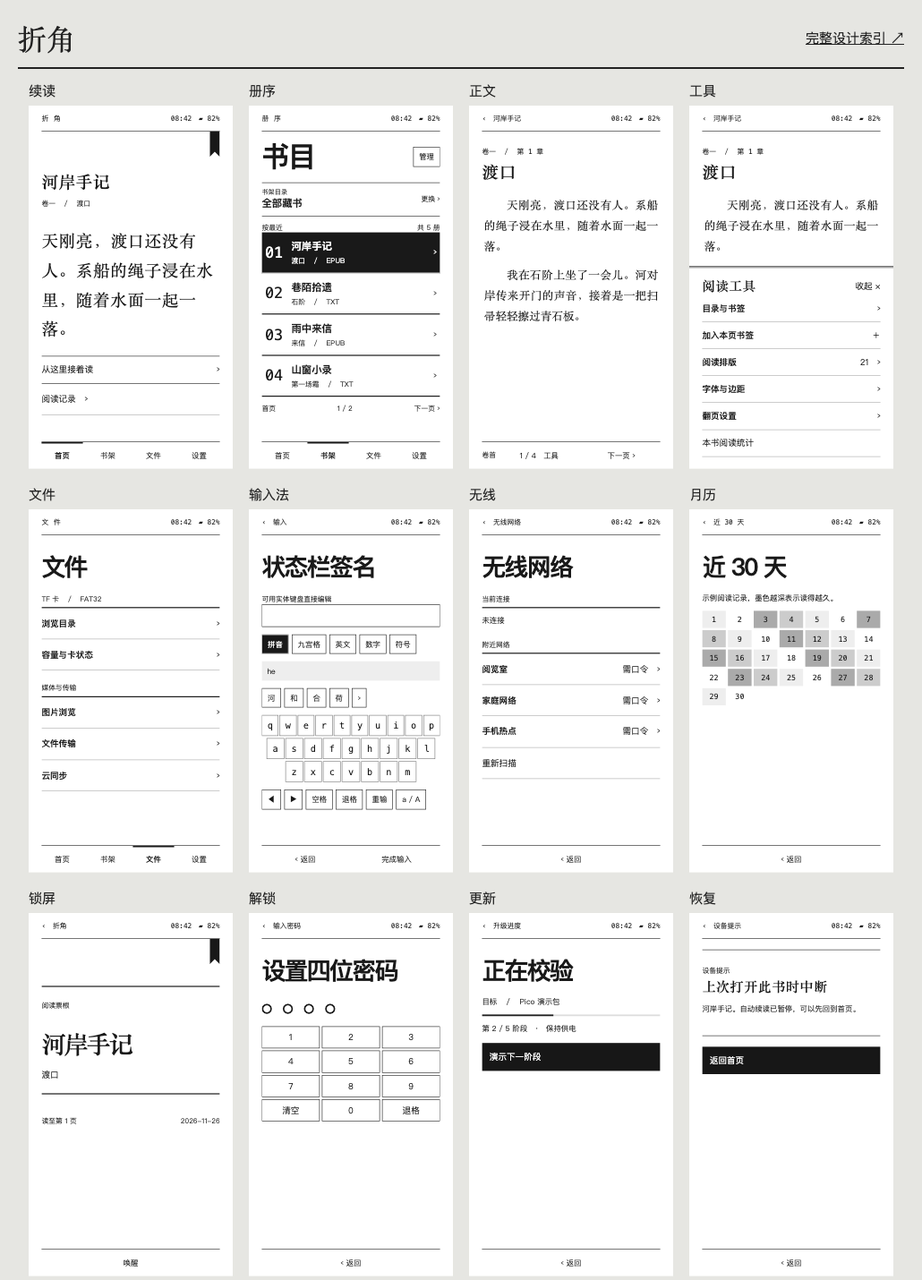
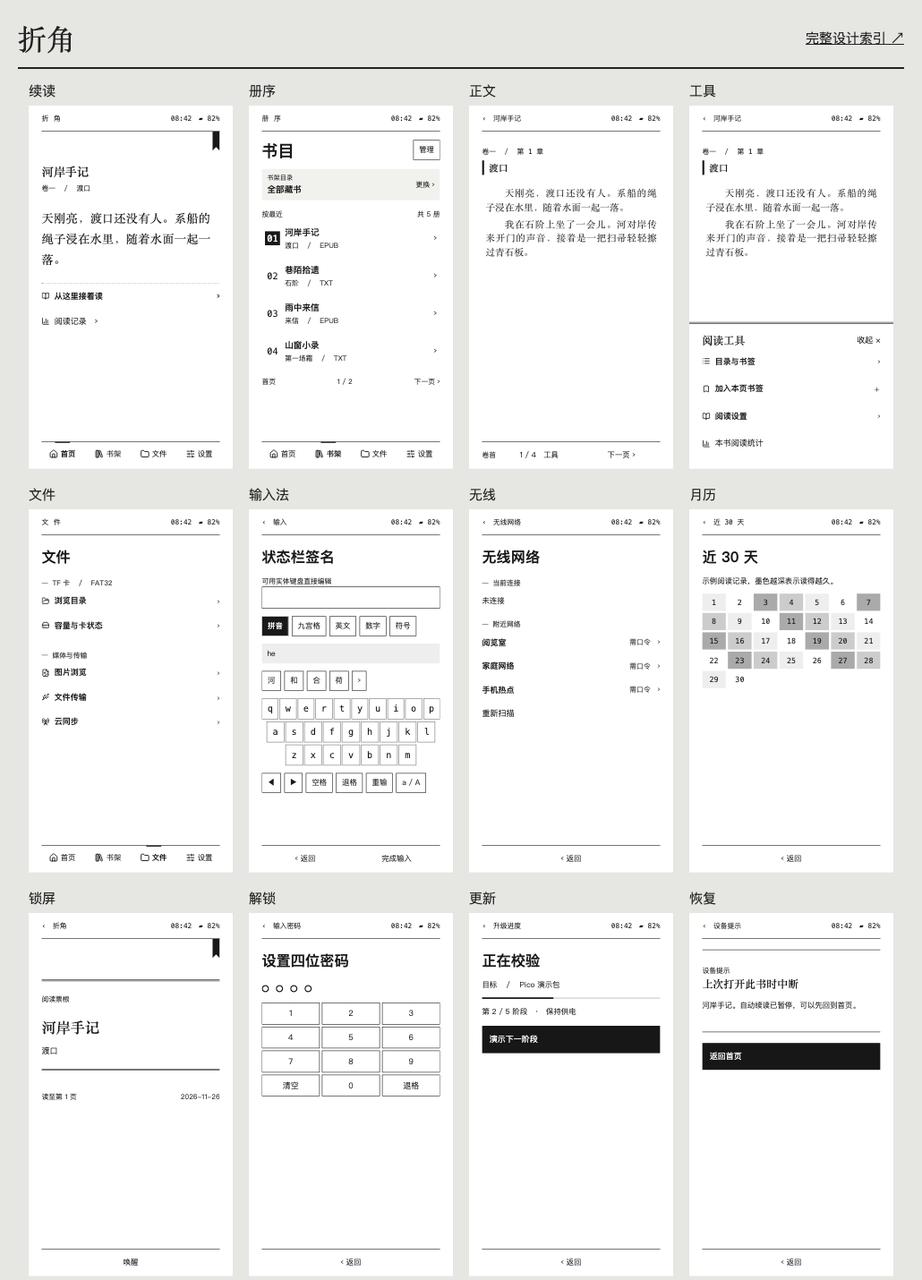
style(prototype): refine folded reader menus and typography

diff --git a/design-demos/folded-reader-complete/index.html b/design-demos/folded-reader-complete/index.html
@@ -1,7 +1,26 @@
 <!doctype html><html lang="zh-CN"><meta charset="utf-8"><meta name="viewport" content="width=device-width,initial-scale=1"><title>折角 · Pico 阅读器</title>
 <style>
-*{box-sizing:border-box}body{margin:0;background:#e6e6e2;color:#191919;font:16px/1.45 "PingFang SC","Microsoft YaHei",sans-serif}button{color:inherit;font:inherit;background:none;border:0;cursor:pointer;padding:0;text-align:left}button:focus-visible{outline:2px dashed;outline-offset:-3px}main{position:relative;width:min(100vw,380px);height:min(100dvh,675.55px);margin:auto;background:white;display:flex;flex-direction:column;padding:0 24px;overflow:hidden}body{min-height:100dvh;display:grid;place-items:center}header,footer,.line,.pager{display:flex;align-items:center;justify-content:space-between;gap:8px}header{height:48px;flex:none;border-bottom:1px solid;font:13px monospace;letter-spacing:1px}header button{padding:8px 0}article{min-height:0;overflow:auto;flex:1;scrollbar-width:thin;padding-bottom:12px}footer{border-top:1px solid;min-height:51px;flex:none}footer button{flex:1;text-align:center;font-size:14px;height:50px}footer .on{font-weight:bold;box-shadow:inset 0 3px}h1,h2,h3,p{margin:0}.serif,h2,.quote,.prose,.titlepage{font-family:"Songti SC","STSong",serif}h1{font-size:45px;letter-spacing:-3px;line-height:1.2;margin:32px 0 20px}h2{font-size:31px;letter-spacing:1px}small,.meta{font-size:13px}.mono{font-family:monospace;font-variant-numeric:tabular-nums}.ribbon{display:block;width:19px;height:47px;background:#181818;clip-path:polygon(0 0,100% 0,100% 100%,50% 80%,0 100%);margin-left:auto}.home h2{margin:24px 0 5px}.quote{font-size:31px;line-height:1.75;letter-spacing:1px;margin:32px 0 25px}.rule,.row,.primary{width:100%;display:flex;align-items:center;justify-content:space-between;gap:10px}.rule{border-block:1px solid;padding:13px 0}.row{border-bottom:1px solid #aaa;padding:17px 0}.row b,.row small{display:block}.row small{margin-top:4px}.primary{background:#171717;color:white;padding:14px;margin-top:15px}.shelf h1{font-size:65px;margin:30px 0 20px}.book{display:grid;grid-template-columns:40px 1fr auto;text-align:left;width:100%;align-items:center;gap:9px;padding:18px 6px;border-bottom:2px solid}.book.active{background:#191919;color:white}.book strong{font-size:19px}.book small{display:block;margin-top:4px}.number{font:28px monospace}.group{font-size:13px;margin:23px 0 0;border-bottom:2px solid;padding-bottom:6px}.prose{font-size:var(--size);line-height:var(--leading);text-align:justify}.prose p{margin:0 0 .65em;text-indent:2em}.chapter{margin:28px 0 20px}.chapter small{display:block;font:13px monospace;margin-bottom:6px}.pager{width:100%;font-size:13px}.pager button{padding:12px 0}.sheet{position:absolute;bottom:0;left:0;width:100%;padding:16px 24px 22px;background:white;border-top:3px double;z-index:2}.sheet .row{padding:13px 0}.sheet h2{font-size:24px}.readerpage{cursor:pointer}.label{display:inline-block;border:1px solid;font:12px monospace;padding:3px 6px}.intro{margin:18px 0;line-height:1.8}.options{display:flex;gap:5px;margin:10px 0 20px}.options button{flex:1;border:1px solid;padding:9px 0;text-align:center}.chosen{background:#191919;color:white}.lock{margin:auto;text-align:center}.lock h1{font:64px "Songti SC",serif;writing-mode:vertical-rl;letter-spacing:8px;margin:25px auto}.lock .ribbon{margin:0 auto}.progress{height:3px;background:#ddd;margin-top:12px}.progress i{display:block;height:100%;background:#222}.sub{padding-top:12px}.bookmark{font-size:13px}.fileicon{font:13px monospace;border:1px solid;padding:4px;min-width:42px;text-align:center}.filetitle{flex:1}.titlepage{font-size:24px}.end{font-size:13px;text-align:center;margin:20px}.off{visibility:hidden}button:disabled{color:#888;cursor:default}@media(max-height:570px){.quote{font-size:24px;margin:15px 0}}
-header button,footer button{min-height:40px}.subnav{display:flex;flex-wrap:wrap;gap:6px;margin:14px 0}.subnav button,.chip{border:1px solid;padding:7px 10px;font-size:14px}.help{font-size:14px;line-height:1.65;margin:12px 0}.empty{border-block:1px solid;padding:26px 0;margin:20px 0}.empty h2{font-size:25px}.numgrid,.keygrid{display:grid;grid-template-columns:repeat(3,1fr);gap:4px;margin:12px 0}.numgrid button,.keygrid button{border:1px solid;text-align:center;padding:8px 0}.keygrid{grid-template-columns:repeat(6,1fr)}input,select{max-width:100%;font:inherit;border:1px solid;background:white;color:#111;padding:8px}input.wide{width:100%}.notice{padding:8px 10px;background:#eee;margin:8px 0;font-size:14px}.stamp{display:inline-block;border:2px solid;padding:3px 8px;font-weight:bold;letter-spacing:2px}.bars{height:68px;display:flex;align-items:end;gap:8px;margin:12px 0}.bars i{background:#222;flex:1}.ticket{margin:40px 0;border-block:3px double;padding:22px 0}.tiles{display:grid;grid-template-columns:1fr 1fr;transform:rotate(-5deg);gap:8px;margin:52px 18px}.tiles b{border:1px solid;padding:18px 8px;writing-mode:vertical-rl;font:26px 'Songti SC',serif}.wall{height:160px;background:repeating-radial-gradient(ellipse at bottom right,white 0 8px,#333 9px 10px);margin:25px 0}.rail{display:flex;gap:4px}.rail button{flex:1;text-align:center;border:1px solid;padding:9px 0}.ghost{color:#555}.kbdline{word-break:break-all;min-height:46px;border-bottom:2px solid;padding:6px 0}.scrollHint{margin-top:20px}button:disabled{opacity:.5}article{overflow-wrap:anywhere}.prose{line-height:var(--leading)}.sheet{max-height:78%;overflow:auto}.qwerty{margin:12px 0}.qwerty>div{display:flex;gap:2px;margin:4px 0;justify-content:center}.qwerty button{width:10%;height:39px;border:1px solid #777;text-align:center;font:17px monospace}.crop{aspect-ratio:684/1216;width:135px;height:auto;margin-inline:auto;border:1px solid}header button{max-width:65%;overflow:hidden;white-space:nowrap;text-overflow:ellipsis}.print{width:68px;height:54px;border:1px solid}.photo{width:100%;height:270px;margin:20px 0}.print0{background:repeating-radial-gradient(ellipse at bottom right,white 0 9px,#333 10px 11px)}.print1{background:repeating-radial-gradient(ellipse at 30% -40%,white 0 12px,#222 13px 14px)}.print2{background:repeating-radial-gradient(circle at 56% 44%,#222 0 2px,white 3px 11px)}.scope{border-block:1px solid;margin:0 0 12px}.scope-pick,.scope-path{width:100%;display:flex;align-items:center;justify-content:space-between;gap:8px;padding:8px 0}.scope-pick small,.dir-option small{display:block;font-size:12px}.scope-pick b{font-size:19px}.scope-pick>span:last-child,.scope-path{font-size:13px}.scope-path{border-top:1px dotted #aaa}.scope-path code,.dir-option small{overflow-wrap:anywhere}.scope-path button{white-space:nowrap;text-decoration:underline}.dir-option{width:100%;display:grid;grid-template-columns:30px minmax(0,1fr) auto;gap:8px;align-items:center;padding:12px 8px;border-bottom:1px solid}.dir-option b,.dir-option small{display:block}.dir-option>span:last-child{font-size:13px}.scope-apply{background:#191919;color:white}footer .scope-apply{flex:2}.shelf:has(.scope) h1{margin:16px 0;font-size:52px}.shelf:has(.scope) .book{padding-block:12px}.rs-tabs{display:flex;border-block:1px solid;margin:12px 0}.rs-tabs button{flex:1;padding:9px;text-align:center}.rs-tabs [aria-current=true]{background:#171717;color:white}.rs-preview{border-block:2px solid;padding:10px 0;margin:12px 0}.rs-preview>small{display:block;margin-bottom:8px}.rs-preview .prose{max-height:130px;overflow:auto}.rs-range{display:block;margin:14px 0}.rs-range span{display:flex;justify-content:space-between}.rs-range input{width:100%;accent-color:#171717;padding:0}.rs-choices{display:flex;flex-wrap:wrap;gap:4px;margin:6px 0 12px}.rs-choices button{padding:6px 9px;border:1px solid #777}.rs-heading{margin:8px 0 14px}.rs-heading[data-style="粗竖线"]{border-inline-start:4px solid;padding-inline-start:9px}.rs-heading[data-style="扉页横线"]{border-block:1px solid;padding:6px}.rs-heading[data-style="阶梯题头"]{padding-inline-start:18px;border-bottom:2px solid;width:fit-content}.rs-heading[data-style="章号侧栏"]{display:flex;align-items:center;gap:8px}.rs-heading[data-style="章号侧栏"]:before{content:"章";writing-mode:vertical-rl;background:#222;color:white;font:12px serif;padding:6px}.rs-preview p{margin-top:0}.rs-bg{background:repeating-linear-gradient(115deg,#fff 0 12px,#eee 13px 14px)}.reading-menu h1{margin:20px 0 10px}.pic-input label{position:relative;display:block;border:1px solid;padding:12px;margin:8px 0;cursor:pointer}.pic-input input{position:absolute;inset:0;opacity:0;width:100%;height:100%;cursor:pointer}.pic-input label:focus-within{outline:2px solid}.pic-thumb{width:50px;height:54px;object-fit:cover;filter:grayscale(1)}.pic-name{flex:1;min-width:0;overflow-wrap:anywhere;padding:0 8px}.pic-proof{min-height:260px;padding:15px}.pic-proof .prose{max-height:210px}</style>
+*{box-sizing:border-box}body{margin:0;background:#e6e6e2;color:#191919;font:15px/1.5 "PingFang SC","Microsoft YaHei",sans-serif}button{color:inherit;font:inherit;background:none;border:0;cursor:pointer;padding:0;text-align:left}button:focus-visible{outline:2px dashed;outline-offset:-3px}main{position:relative;width:min(100vw,380px);height:min(100dvh,675.55px);margin:auto;background:white;display:flex;flex-direction:column;padding:0 24px;overflow:hidden}body{min-height:100dvh;display:grid;place-items:center}header,footer,.line,.pager{display:flex;align-items:center;justify-content:space-between;gap:8px}header{height:48px;flex:none;border-bottom:1px solid;font:13px monospace;letter-spacing:1px}header button{padding:8px 0}article{min-height:0;overflow:auto;flex:1;scrollbar-width:thin;padding-bottom:12px}footer{border-top:1px solid;min-height:51px;flex:none}footer button{flex:1;text-align:center;font-size:14px;height:50px}footer .on{position:relative;font-weight:600}footer .on::before{content:"";position:absolute;inset:0 0 auto;margin:auto;width:2em;border-top:2px solid}h1,h2,h3,p{margin:0}.serif,h2,.quote,.prose,.titlepage{font-family:"Songti SC","STSong",serif}h1{font-size:1.8em;letter-spacing:0;line-height:1.25;margin:24px 0 16px}h2{font-size:1.47em;letter-spacing:0}small,.meta{font-size:13px}.mono{font-family:monospace;font-variant-numeric:tabular-nums}.ribbon{display:block;width:14px;height:36px;background:#181818;clip-path:polygon(0 0,100% 0,100% 100%,50% 80%,0 100%);margin-left:auto}.home h2{margin:22px 0 4px}.quote{font-size:1.47em;line-height:1.75;letter-spacing:.02em;margin:24px 0}.rule,.row,.primary{width:100%;display:flex;align-items:center;justify-content:space-between;gap:10px}.rule{padding:13px 0;font-weight:600}.home .rule{border-top:1px dotted #aaa}.row{min-height:44px;padding:10px 0}.row b{font-weight:550}.row>b+span{font-size:.87em;color:#474747}.row b,.row small{display:block}.row small{margin-top:4px}.primary{background:#171717;color:white;padding:14px;margin-top:15px}.shelf h1{font-size:2em;margin:18px 0 14px}.book{display:grid;grid-template-columns:28px minmax(0,1fr) auto;text-align:left;width:100%;align-items:center;gap:9px;padding:11px 6px}.book.active .number{background:#191919;color:white}.book strong{font-size:1.07em;font-weight:600}.book small{display:block;margin-top:4px}.number{font:17px/26px monospace;text-align:center}.group{display:flex;align-items:center;gap:8px;font-size:13px;font-weight:500;color:#555;margin:22px 0 2px}.group::before{content:"";width:12px;border-top:1px solid;flex:none}.prose{font-size:var(--size);line-height:var(--leading);text-align:justify}.prose p{margin:0 0 .65em;text-indent:2em}.chapter{margin:28px 0 20px}.chapter small{display:block;font:13px monospace;margin-bottom:6px}.pager{width:100%;font-size:13px}.pager button{padding:12px 0}.sheet{position:absolute;bottom:0;left:0;width:100%;padding:16px 24px 22px;background:white;border-top:3px double;z-index:2}.sheet .row{padding:13px 0}.sheet h2{font-size:1.33em}.readerpage{cursor:pointer}.label{display:inline-block;border:1px solid;font:12px monospace;padding:3px 6px}.intro{margin:18px 0;line-height:1.8}.options{display:flex;gap:5px;margin:10px 0 20px}.options button{flex:1;border:1px solid;padding:9px 0;text-align:center}.chosen{background:#191919;color:white}.lock{margin:auto;text-align:center}.lock h1{font:44px "Songti SC",serif;writing-mode:vertical-rl;letter-spacing:8px;margin:25px auto}.lock .ribbon{margin:0 auto}.progress{height:3px;background:#ddd;margin-top:12px}.progress i{display:block;height:100%;background:#222}.sub{padding-top:12px}.bookmark{font-size:13px}.fileicon{font:13px monospace;border:1px solid;padding:4px;min-width:42px;text-align:center}.filetitle{flex:1}.titlepage{font-size:24px}.end{font-size:13px;text-align:center;margin:20px}.off{visibility:hidden}button:disabled{color:#888;cursor:default}@media(max-height:570px){.quote{margin:15px 0}}
+header button,footer button{min-height:40px}.subnav{display:flex;flex-wrap:wrap;gap:6px;margin:14px 0}.subnav button,.chip{border:1px solid;padding:7px 10px;font-size:14px}.help{font-size:14px;line-height:1.65;margin:12px 0}.empty{border-block:1px solid;padding:26px 0;margin:20px 0}.empty h2{font-size:1.33em}.numgrid,.keygrid{display:grid;grid-template-columns:repeat(3,1fr);gap:4px;margin:12px 0}.numgrid button,.keygrid button{border:1px solid;text-align:center;padding:8px 0}.keygrid{grid-template-columns:repeat(6,1fr)}input,select{max-width:100%;font:inherit;border:1px solid;background:white;color:#111;padding:8px}input.wide{width:100%}.notice{padding:8px 10px;background:#eee;margin:8px 0;font-size:14px}.stamp{display:inline-block;border:2px solid;padding:3px 8px;font-weight:bold;letter-spacing:2px}.bars{height:68px;display:flex;align-items:end;gap:8px;margin:12px 0}.bars i{background:#222;flex:1}.ticket{margin:40px 0;border-block:3px double;padding:22px 0}.tiles{display:grid;grid-template-columns:1fr 1fr;transform:rotate(-5deg);gap:8px;margin:52px 18px}.tiles b{border:1px solid;padding:18px 8px;writing-mode:vertical-rl;font:26px 'Songti SC',serif}.wall{height:160px;background:repeating-radial-gradient(ellipse at bottom right,white 0 8px,#333 9px 10px);margin:25px 0}.rail{display:flex;gap:4px}.rail button{flex:1;text-align:center;border:1px solid;padding:9px 0}.ghost{color:#555}.kbdline{word-break:break-all;min-height:46px;border-bottom:2px solid;padding:6px 0}.scrollHint{margin-top:20px}button:disabled{opacity:.5}article{overflow-wrap:anywhere}.prose{line-height:var(--leading)}.sheet{max-height:78%;overflow:auto}.qwerty{margin:12px 0}.qwerty>div{display:flex;gap:2px;margin:4px 0;justify-content:center}.qwerty button{width:10%;height:39px;border:1px solid #777;text-align:center;font:17px monospace}.crop{aspect-ratio:684/1216;width:135px;height:auto;margin-inline:auto;border:1px solid}header button{max-width:65%;overflow:hidden;white-space:nowrap;text-overflow:ellipsis}.print{width:68px;height:54px;border:1px solid}.photo{width:100%;height:270px;margin:20px 0}.print0{background:repeating-radial-gradient(ellipse at bottom right,white 0 9px,#333 10px 11px)}.print1{background:repeating-radial-gradient(ellipse at 30% -40%,white 0 12px,#222 13px 14px)}.print2{background:repeating-radial-gradient(circle at 56% 44%,#222 0 2px,white 3px 11px)}.scope{margin:0 0 16px;padding-inline:10px;background:#f1f1ee}.scope-pick,.scope-path{width:100%;display:flex;align-items:center;justify-content:space-between;gap:8px;padding:8px 0}.scope-pick small,.dir-option small{display:block;font-size:12px}.scope-pick b{font-size:1.07em}.scope-pick>span:last-child,.scope-path{font-size:13px}.scope-path{border-top:1px dotted #aaa}.scope-path code,.dir-option small{overflow-wrap:anywhere}.scope-path button{white-space:nowrap;text-decoration:underline}.dir-option{width:100%;display:grid;grid-template-columns:30px minmax(0,1fr) auto;gap:8px;align-items:center;padding:12px 8px}.dir-option b,.dir-option small{display:block}.dir-option>span:last-child{font-size:13px}.scope-apply{background:#191919;color:white}footer .scope-apply{flex:2}.rs-tabs{display:flex;gap:4px;margin:12px 0 16px;background:#f3f3f0;padding:3px}.rs-tabs button{flex:1;padding:9px;text-align:center}.rs-tabs [aria-current=true]{background:#171717;color:white}.rs-preview{border-inline-start:1px solid #aaa;padding:4px 0 4px 12px;margin:14px 0 18px}.rs-preview>small{display:block;margin-bottom:8px}.rs-preview .prose{max-height:130px;overflow:auto}.rs-range{display:block;margin:14px 0}.rs-range span{display:flex;justify-content:space-between}.rs-range input{width:100%;accent-color:#171717;padding:0}.rs-choices{display:flex;flex-wrap:wrap;gap:4px;margin:6px 0 12px}.rs-choices button{padding:6px 9px;border:1px solid #777}.rs-heading{margin:8px 0 14px}.rs-heading[data-style="粗竖线"]{border-inline-start:4px solid;padding-inline-start:9px}.rs-heading[data-style="扉页横线"]{border-block:1px solid;padding:6px}.rs-heading[data-style="阶梯题头"]{padding-inline-start:18px;border-bottom:2px solid;width:fit-content}.rs-heading[data-style="章号侧栏"]{display:flex;align-items:center;gap:8px}.rs-heading[data-style="章号侧栏"]:before{content:"章";writing-mode:vertical-rl;background:#222;color:white;font:12px serif;padding:6px}.rs-preview p{margin-top:0}.rs-bg{background:repeating-linear-gradient(115deg,#fff 0 12px,#eee 13px 14px)}.reading-menu h1{margin:20px 0 10px}.pic-input label{position:relative;display:block;border:1px solid;padding:12px;margin:8px 0;cursor:pointer}.pic-input input{position:absolute;inset:0;opacity:0;width:100%;height:100%;cursor:pointer}.pic-input label:focus-within{outline:2px solid}.pic-thumb{width:50px;height:54px;object-fit:cover;filter:grayscale(1)}.pic-name{flex:1;min-width:0;overflow-wrap:anywhere;padding:0 8px}.pic-proof{min-height:260px;padding:15px}.pic-proof .prose{max-height:210px}
+.ui-icon{width:15px;height:15px;object-fit:contain;flex:none;pointer-events:none}
+.icon-label{display:inline-flex;align-items:center;gap:9px;min-width:0}
+footer .icon-label{gap:5px}
+footer .ui-icon{width:17px;height:17px}
+
+/* A dot marks a value within a choice group. Standalone action buttons keep their outline. */
+.value-choices button,.rs-choices button,.options button{
+ display:inline-flex;align-items:center;justify-content:flex-start;gap:7px;
+ border:0;background:transparent;color:inherit;padding:8px 9px 8px 0
+}
+.value-choices button::before,.rs-choices button::before,.options button::before{
+ content:"";box-sizing:border-box;width:10px;height:10px;flex:none;border:1px solid #777;border-radius:50%
+}
+.value-choices .chosen,.rs-choices .chosen,.options .chosen{font-weight:650}
+.value-choices .chosen::before,.rs-choices .chosen::before,.options .chosen::before{
+ background:#222;border-color:#222;box-shadow:inset 0 0 0 2px white
+}
+@media(hover:hover){.row:not(:disabled):hover,.book:hover{background:#f3f3f0}}
+</style>
 <main id="device" aria-label="折角阅读器"></main>
 <script>
 const books=[
@@ -13,7 +32,7 @@ const books=[
  {name:'巷陌拾遗',type:'TXT',chs:['石阶','南窗'],pages:[['沿着旧巷走进去，石阶上还留着昨夜的雨。','卖花的人推开木窗，把一盆茉莉放在第一层台阶上。'],['窗棂的一半落在阴影里。','有人把一张旧报纸叠了两折，垫在花盆下面。']]},
  {name:'雨中来信',type:'EPUB',chs:['来信','回音'],pages:[['信是一个下雨的下午送来的。','信封上只有我的名字。打开时，一张车票先落在了桌面上。'],['雨停的时候，我写下第一行回信。','窗外的屋檐仍在滴水，每一滴都隔得很远。']]}];
 const starts=[[0,2,3],[0,1],[0,1]],names={home:'首页',shelf:'书架',files:'文件',settings:'设置'},params=new URLSearchParams(location.search);
-let state={id:0,pos:[0,0,0],recent:[0,1,2],marks:[],size:21,leading:1.85,refresh:10};
+let state={id:0,pos:[0,0,0],recent:[0,1,2],marks:[],size:18,leading:1.85,refresh:10};
 const demo=params.has('shot');try{if(!demo)Object.assign(state,JSON.parse(localStorage.getItem('folded-reader-complete-v1')||'{}'))}catch{}
 let view=params.get('view')||'home',panel=params.get('panel')||'',folder=false,origin='shelf',returnTo='settings',chapterTab='目录',transfer='USB';
 const root=document.querySelector('main'),b=()=>books[state.id],page=()=>state.pos[state.id],ch=(i,n)=>starts[i].filter(v=>v<=n).length-1;
@@ -24,20 +43,32 @@ function pos(n){state.pos[state.id]=n;save();go('reader')}
 function set(k,v){state[k]=v;save();draw()}
 function toggle(){let key=state.id+'-'+page();state.marks=state.marks.includes(key)?state.marks.filter(x=>x!==key):[...state.marks,key];save();draw()}
 function options(k,items){return '<div class="options">'+items.map(([v,t])=>'<button class="'+(state[k]===v?'chosen':'')+'" onclick="set(\''+k+'\','+v+')">'+t+'</button>').join('')+'</div>'}
+const routeIcons = {
+ home:'house', shelf:'library-big', files:'folder', settings:'sliders-horizontal',
+ browser:'folder-open', storage:'hard-drive', gallery:'file-image', transferHub:'usb', cloud:'radio-tower',
+ readingSettings:'book-open', appearance:'contrast', wireless:'wifi', bluetooth:'bluetooth',
+ profile:'ticket', clock:'clock', sleepSettings:'eye-closed', updates:'download', backup:'copy', powerMenu:'power',
+ textStyle:'type', pageLayout:'text-align-start', pageDisplay:'expand', readerGuide:'list', chapterStyle:'book-bookmark',
+ security:'lock', wallpaper:'file-image', keys:'layout-grid', month:'chart-column', contents:'list'
+};
+function iconLabel(icon, label) {
+ if (!icon) return label;
+ return '<span class="icon-label"><img class="ui-icon" src="../../tools/icons/lucide/'+icon+'.svg" alt="">'+label+'</span>';
+}
 const btn=(s,action,cl='')=>'<button class="'+cl+'" onclick="'+action+'">'+s+'</button>';
-const row=(s,end,act)=>btn('<b>'+s+'</b><span>'+end+'</span>',act,'row');
+const row=(s,end,act,icon)=>btn('<b>'+iconLabel(icon,s)+'</b><span>'+end+'</span>',act,'row');
 const route=v=>"go('"+v+"')";
 function draw(){
  const i=state.id,n=page(),bk=b(),ci=ch(i,n),c=bk.chs[ci],key=i+'-'+n,marked=state.marks.includes(key),meta='卷一　／　'+c;
- const nav=Object.entries(names).map(([k,v])=>btn(v,route(k),view===k?'on':'')).join('');
+ const nav=Object.entries(names).map(([k,v])=>btn(iconLabel(routeIcons[k],v),route(k),view===k?'on':'')).join('');
  let title='折 角',body='',bottom=nav,overlay='',back='';
- if(view==='home'){body='<section class="home"><i class="ribbon"></i><h2>'+bk.name+'</h2><small>'+meta+'</small><p class="quote">'+bk.pages[n][0]+'</p>'+btn('从这里接着读 <span>›</span>',"book("+i+",'home')",'rule')+'</section>'}
+ if(view==='home'){body='<section class="home"><i class="ribbon"></i><h2>'+bk.name+'</h2><small>'+meta+'</small><p class="quote">'+bk.pages[n][0]+'</p>'+btn(iconLabel('book-open','从这里接着读')+'<span>›</span>',"book("+i+",'home')",'rule')+'</section>'}
  if(view==='shelf'){title='册 序';body='<section class="shelf"><h1>书目</h1><div class="line meta"><span>按最近阅读排序</span><span>共 03 册</span></div>'+state.recent.map((j,k)=>btn('<span class="number">0'+(k+1)+'</span><span><strong>'+books[j].name+'</strong><small>'+books[j].chs[ch(j,state.pos[j])]+'　／　'+books[j].type+'</small></span><span>›</span>',"book("+j+",'shelf')",'book '+(k===0?'active':''))).join('')+'</section>'}
  if(view==='files'){title='文 件';body='<h1>文件</h1><div class="group">TF 卡'+(folder?'　/　books':'　/ 根目录')+'</div>'+(folder?btn('‹ 上级目录','folder=false;draw()','row')+books.map((x,j)=>btn('<span class="fileicon">'+x.type+'</span><span class="filetitle">'+x.name+'.'+x.type.toLowerCase()+'</span>›',"book("+j+",'files')",'row')).join(''):row('books','3 个文件　›','folder=true;draw()'))+row('文件传输','›',route('transfer'))}
  if(view==='settings'){title='设 置';body='<h1>设置</h1><div class="group">阅读与显示</div>'+row('阅读排版',state.size+'　›',"returnTo='settings';go('type')")+row('自动全刷',state.refresh+' 页　›',route('refresh'))+'<div class="group">设备</div>'+row('文件传输','›',route('transfer'))+row('锁屏预览','›',route('lock'))}
- if(view==='reader'){title=bk.name;back=route(origin);body='<section class="readerpage" onclick="panel=\'tools\';draw()"><div class="chapter"><small>卷一　／　第 '+(ci+1)+' 章</small><h2>'+c+'</h2></div><div class="prose">'+bk.pages[n].map(s=>'<p>'+s+'</p>').join('')+'</div></section>';bottom='<div class="pager">'+(n?btn('‹ 上一页','pos('+(n-1)+')'):'<span>卷首</span>')+btn((n+1)+' / '+bk.pages.length+'　工具',"panel='tools';draw()")+(n<bk.pages.length-1?btn('下一页 ›','pos('+(n+1)+')'):'<span>全书完</span>')+'</div>';if(panel==='tools')overlay='<aside class="sheet"><div class="line"><h2>阅读工具</h2>'+btn('收起 ×',"panel='';draw()")+'</div>'+row('目录与书签','›',"chapterTab='目录';go('contents')")+row(marked?'移除本页书签':'加入本页书签',marked?'已收藏':'＋','toggle()')+row('阅读排版',state.size+'　›',"returnTo='reader';go('type')")+'</aside>'}
+ if(view==='reader'){title=bk.name;back=route(origin);body='<section class="readerpage" onclick="panel=\'tools\';draw()"><div class="chapter"><small>卷一　／　第 '+(ci+1)+' 章</small><h2>'+c+'</h2></div><div class="prose">'+bk.pages[n].map(s=>'<p>'+s+'</p>').join('')+'</div></section>';bottom='<div class="pager">'+(n?btn('‹ 上一页','pos('+(n-1)+')'):'<span>卷首</span>')+btn((n+1)+' / '+bk.pages.length+'　工具',"panel='tools';draw()")+(n<bk.pages.length-1?btn('下一页 ›','pos('+(n+1)+')'):'<span>全书完</span>')+'</div>';if(panel==='tools')overlay='<aside class="sheet"><div class="line"><h2>阅读工具</h2>'+btn('收起 ×',"panel='';draw()")+'</div>'+row('目录与书签','›',"chapterTab='目录';go('contents')","list")+row(marked?'移除本页书签':'加入本页书签',marked?'已收藏':'＋','toggle()',marked?'bookmark-check':'bookmark')+row('阅读排版',state.size+'　›',"returnTo='reader';go('type')")+'</aside>'}
  if(view==='contents'){title=bk.name;back=route('reader');let marks=state.marks.filter(x=>x.startsWith(i+'-')).map(x=>Number(x.split('-')[1])).sort((a,b)=>a-b);body='<h1>'+chapterTab+'</h1><div class="options">'+['目录','书签'].map(t=>btn(t,"chapterTab='"+t+"';draw()",chapterTab===t?'chosen':'')).join('')+'</div>'+(chapterTab==='目录'?bk.chs.map((s,j)=>row(s,j===ci?'正在读':'第 '+(starts[i][j]+1)+' 页','pos('+starts[i][j]+')')).join(''):marks.map(x=>row(bk.chs[ch(i,x)],'第 '+(x+1)+' 页','pos('+x+')')).join('')||'<p class="intro">还没有书签。阅读时打开工具，即可收藏当前页。</p>');bottom=btn('‹ 返回正文',back)}
- if(view==='type'){title='阅读排版';back=route(returnTo);body='<h1>阅读排版</h1><div class="group">字号</div>'+options('size',[[18,'小'],[21,'标准'],[24,'大']])+'<div class="group">行距</div>'+options('leading',[[1.55,'紧凑'],[1.85,'舒展'],[2.1,'宽松']])+'<div class="group">正文预览</div><div class="prose sub"><p>'+bk.pages[n][0]+'</p></div>';bottom=btn('‹ 返回'+(returnTo==='reader'?'正文':'设置'),back)}
+ if(view==='type'){title='阅读排版';back=route(returnTo);body='<h1>阅读排版</h1><div class="group">字号</div>'+options('size',[[16,'小'],[18,'标准'],[22,'大']])+'<div class="group">行距</div>'+options('leading',[[1.55,'紧凑'],[1.85,'舒展'],[2.1,'宽松']])+'<div class="group">正文预览</div><div class="prose sub"><p>'+bk.pages[n][0]+'</p></div>';bottom=btn('‹ 返回'+(returnTo==='reader'?'正文':'设置'),back)}
  if(view==='refresh'){title='显示';back=route('settings');body='<h1>自动全刷</h1><p class="intro">设置间隔页数，定期清理墨水屏残影。</p>'+options('refresh',[[5,'5 页'],[10,'10 页'],[15,'15 页'],[30,'30 页']]);bottom=btn('‹ 返回设置',back)}
  if(view==='transfer'){title='文件传输';back=route(originTransfer);body='<h1>传书</h1><div class="options">'+['USB','Wi-Fi','设备热点'].map(t=>btn(t,"transfer='"+t+"';draw()",transfer===t?'chosen':'')).join('')+'</div><div class="group">'+transfer+' 传输</div><p class="intro">'+({'USB':'使用数据线连接电脑，将 EPUB 或 TXT 文件复制到 TF 卡的 books 目录。','Wi-Fi':'阅读器与电脑连接同一个无线网络，再通过设备显示的地址传书。','设备热点':'用电脑连接阅读器创建的热点，再打开设备显示的传输页面。'})[transfer]+'</p><small>界面演示 · 未连接设备</small>';bottom=btn('‹ 返回',back)}
  if(view==='lock'){title='休 眠';body='<div class="lock"><i class="ribbon"></i><h1>折角</h1><h2>'+bk.name+'</h2><small>'+meta+'</small></div>';bottom=btn('唤醒阅读器',route('home'))}

diff --git a/design-demos/folded-reader-complete/spec.html b/design-demos/folded-reader-complete/spec.html
@@ -1,6 +1,6 @@
 <!doctype html><html lang="zh-CN"><meta charset="utf-8"><meta name="viewport" content="width=device-width,initial-scale=1"><title>折角 · 界面规格</title><style>*{box-sizing:border-box}body{max-width:850px;margin:0 auto;padding:28px 20px 70px;color:#181818;font:16px/1.7 "PingFang SC",sans-serif}h1{font:44px "Songti SC",serif}h2{border-top:2px solid;padding-top:16px}h3{margin-bottom:0}table{width:100%;border-collapse:collapse}td,th{text-align:left;vertical-align:top;padding:8px;border-bottom:1px solid #aaa}a{color:inherit}code{overflow-wrap:anywhere}nav{display:flex;justify-content:space-between}small{color:#444}</style><nav><a href="catalog.html">‹ 设计索引</a><a href="index.html">试用设备原型</a></nav><h1>折角界面规格</h1><p>供固件实现与上机验收使用。下表按 684 × 1216 逻辑像素取整。浏览器预览以 380 × 676 展示，比例约 1.8。</p>
-<h2>屏幕与字级</h2><table><tr><th>元素</th><th>目标尺寸</th><th>布局规则</th></tr><tr><td>左右页边</td><td>43 px</td><td>标题、正文起点、分隔线和列表对齐。</td></tr><tr><td>状态栏 / 主导航</td><td>86 / 92 px 高</td><td>导航四等分。当前项顶部黑线，名称保持可见。</td></tr><tr><td>首页折角</td><td>34 × 85 px</td><td>与右页边对齐，挂在顶栏细线下方。续读摘录用宋体 56 px。</td></tr><tr><td>书目题头 / 常规题头</td><td>117 / 81 px</td><td>书目用黑体。标题过长时允许两行，操作按钮独占右侧。</td></tr><tr><td>章名 / 正文</td><td>56 / 38 px</td><td>正文小、中、大约 32、38、43 px。行高 1.55、1.85、2.1 倍。</td></tr><tr><td>标签 / 列表正文</td><td>23 / 29 px</td><td>文件名和用户签名按完整字形截断，详情可看全名。</td></tr><tr><td>行与触点</td><td>常规行约 100 px</td><td>整行响应。文字、尾部值及箭头共享热区。输入法字母键因十列排布单独取宽。</td></tr></table>
-<h2>组件状态</h2><table><tr><th>组件</th><th>正常与选中</th><th>边界反馈</th></tr><tr><td>书目行</td><td>最近项用反白，收藏用星标，批量模式改为方框勾选。</td><td>筛选无结果显示清除查询的路径，批量操作在零选中时禁用。</td></tr><tr><td>阅读页</td><td>单击页边翻页，中部或底部上滑开工具。页码显示当前位置。</td><td>首尾页使用卷首、全书完。换书时分别保存进度与书签。</td></tr><tr><td>输入框</td><td>区分已提交文字、待选拼音、候选词。光标左右移动，可连续退格。</td><td>保留原值直到完成。名称冲突就地提示，可返回修改。</td></tr><tr><td>密码键盘</td><td>四个圆点回显长度。设置时输入两次，修改时先验证旧密码。</td><td>错误后清空四格；两次设置不一致时回到第一次输入。</td></tr><tr><td>任务与确认</td><td>给出对象名称、动作后果和取消入口。成功后回到来源并更新列表。</td><td>下载、校验、写入、重启各有阶段标签。失败保留原因和恢复入口。</td></tr><tr><td>锁屏</td><td>票根突出书名与页数；拼贴展示藏书；壁纸保留图像主体。</td><td>手动唤醒回原页面。已启用密码时先验证。</td></tr></table>
+<h2>屏幕与字级</h2><table><tr><th>元素</th><th>目标尺寸</th><th>布局规则</th></tr><tr><td>左右页边</td><td>43 px</td><td>标题、正文起点、分隔线和列表对齐。</td></tr><tr><td>状态栏 / 主导航</td><td>86 / 92 px 高</td><td>导航四等分。当前项顶部黑线，名称保持可见。</td></tr><tr><td>首页折角</td><td>25 × 65 px</td><td>与右页边对齐，挂在顶栏细线下方。续读摘录用宋体 40 px。</td></tr><tr><td>书目题头 / 常规题头</td><td>54 / 49 px</td><td>书目用黑体。标题过长时允许两行，操作按钮独占右侧。</td></tr><tr><td>章名 / 正文</td><td>32 / 32 px</td><td>默认正文 32 px，可调 18–90 px。章名默认与正文同大。</td></tr><tr><td>标签 / 列表正文</td><td>23 / 27 px</td><td>文件名和用户签名按完整字形截断，详情可看全名。</td></tr><tr><td>行与触点</td><td>常规行至少 79 px</td><td>整行响应。文字、尾部值及箭头共享热区。输入法字母键因十列排布单独取宽。</td></tr></table>
+<p>功能入口使用单色 Lucide 线性图标。380 px 预览中主导航为 17 px，列表为 15 px，对应屏幕约 31 和 27 px。图标与标签共用按钮热区。</p><p>通栏实线用于状态栏和底栏。菜单组以短引线和组间留白区分，行内保留功能名与方向箭头。并列单选值使用空心圈与带点圈，选中值同步加粗。书架目录用浅底，藏书行依靠编号与缩进对齐。</p><h2>组件状态</h2><table><tr><th>组件</th><th>正常与选中</th><th>边界反馈</th></tr><tr><td>书目行</td><td>最近项的编号反白，收藏用星标，批量模式改为方框勾选。</td><td>筛选无结果显示清除查询的路径，批量操作在零选中时禁用。</td></tr><tr><td>阅读页</td><td>单击页边翻页，中部或底部上滑开工具。页码显示当前位置。</td><td>首尾页使用卷首、全书完。换书时分别保存进度与书签。</td></tr><tr><td>输入框</td><td>区分已提交文字、待选拼音、候选词。光标左右移动，可连续退格。</td><td>保留原值直到完成。名称冲突就地提示，可返回修改。</td></tr><tr><td>密码键盘</td><td>四个圆点回显长度。设置时输入两次，修改时先验证旧密码。</td><td>错误后清空四格；两次设置不一致时回到第一次输入。</td></tr><tr><td>任务与确认</td><td>给出对象名称、动作后果和取消入口。成功后回到来源并更新列表。</td><td>下载、校验、写入、重启各有阶段标签。失败保留原因和恢复入口。</td></tr><tr><td>锁屏</td><td>票根突出书名与页数；拼贴展示藏书；壁纸保留图像主体。</td><td>手动唤醒回原页面。已启用密码时先验证。</td></tr></table>
 <h2>刷新与适配验收</h2><p>按下一帧的可见变化安排刷新。书签勾选只更新对应行，密码输入只更新圆点与错误区，下载只更新进度条和阶段名称。正文与页码同步提交。工具层收起时重新绘制被遮盖的正文。具体波形、全刷间隔和残影阈值由实机验证。</p>
 <p>应在设备上走查放大系统字号、长文件名、中英文混排、无字形回退、长章节名、首尾页、无卡启动、USB 占卡和锁屏中断。浏览器演示使用系统可用字体、样本书与模拟数据。真机字库、触摸热区、缓存容量及联网时序需另外验收。</p>
 <h2>验证入口</h2><p>在设计索引选择「手册操作」核对路径、操作和结果；切换到「状态与确认」直接查看失败、空态、确认、锁屏及升级阶段。设备入口用于连续操作；索引内的示例相互隔离，便于复查。</p></html>

diff --git a/design-demos/folded-reader-complete/details.js b/design-demos/folded-reader-complete/details.js
@@ -1,8 +1,21 @@
 const legacyDraw=draw, core=['home','shelf','files','settings','reader','contents','type'];
 const esc=s=>String(s).replace(/[&<>"']/g,c=>({'&':'&amp;','<':'&lt;','>':'&gt;','"':'&quot;',"'":'&#39;'}[c]));
-const button=(s,a,cl='row')=>'<button class="'+cl+'" data-act="'+esc(a)+'">'+s+'</button>';
+const actionIcons = {
+ 'stats:all':'chart-column', 'stats:book':'chart-column', quickWifi:'wifi', quickBt:'bluetooth',
+ refreshNow:'refresh-cw', lock:'lock', 'edit:search':'search', 'edit:folder':'folder',
+ 'dest:copy':'copy', 'dest:move':'folder-input', 'ask:delFile':'trash', dirOpen:'folder-open',
+ rescan:'refresh-cw', dir:'folder', dirOps:'folder', file:'file'
+};
+function button(s,a,cl='row') {
+ const [action, target] = a.split(':');
+ const icon = action==='open' ? routeIcons[target] : actionIcons[a] || actionIcons[action];
+ if (icon && (cl==='row' || cl==='chip')) {
+   s = s.startsWith('<b>') ? s.replace(/<b>(.*?)<\/b>/, (_, label)=>'<b>'+iconLabel(icon,label)+'</b>') : iconLabel(icon,s);
+ }
+ return '<button class="'+cl+'" data-act="'+esc(a)+'">'+s+'</button>';
+}
 const link=(s,v,end='›')=>button('<b>'+s+'</b><span>'+end+'</span>','open:'+v);
-const choice=(k,arr)=>'<div class="subnav">'+arr.map(x=>button(esc(x),'set:'+k+':'+x,pref[k]===x?'chosen chip':'chip')).join('')+'</div>';
+const choice=(k,arr)=>'<div class="subnav value-choices">'+arr.map(x=>button(esc(x),'set:'+k+':'+x,pref[k]===x?'chosen chip':'chip')).join('')+'</div>';
 const section=(s,html)=>'<div class="group">'+s+'</div>'+html;
 const hint=s=>'<p class="help">'+s+'</p>';
 const title=s=>'<h1>'+s+'</h1>';

diff --git a/design-demos/folded-reader-complete/polish-log.md b/design-demos/folded-reader-complete/polish-log.md
@@ -1,1 +1,7 @@
 参考方向：折角首页，册序书架。首轮十二屏渲染发现输入法操作栏在首屏被截断，改为三行 QWERTY 和固定完成键。第二轮核对导航、锁屏、异常恢复、分页及云同步。交付总览为 overview.png。验证范围是浏览器模拟，手册项关联功能页，专门状态有独立入口；实际固件显示与硬件待验。
+
+本轮按已选定的「折角首页、册序书架」调整屏内字级。首轮收小续读摘录、书目题头和编号，最近项改用编号反白。复看十二屏后，底栏选中线收至两个字宽，列表尾值降一级。阅读字号保留独立调节。
+
+补充单色导航与操作图标。按原尺寸检查设置列表和底栏，图标与中文标签并排，保留现有行高。
+
+调整内部分隔：移除菜单与藏书逐行横线，设置分组使用 12 px 短引线，单选项使用圆点和字重。按原尺寸复看设置页及显示选项，并更新三张预览图。
